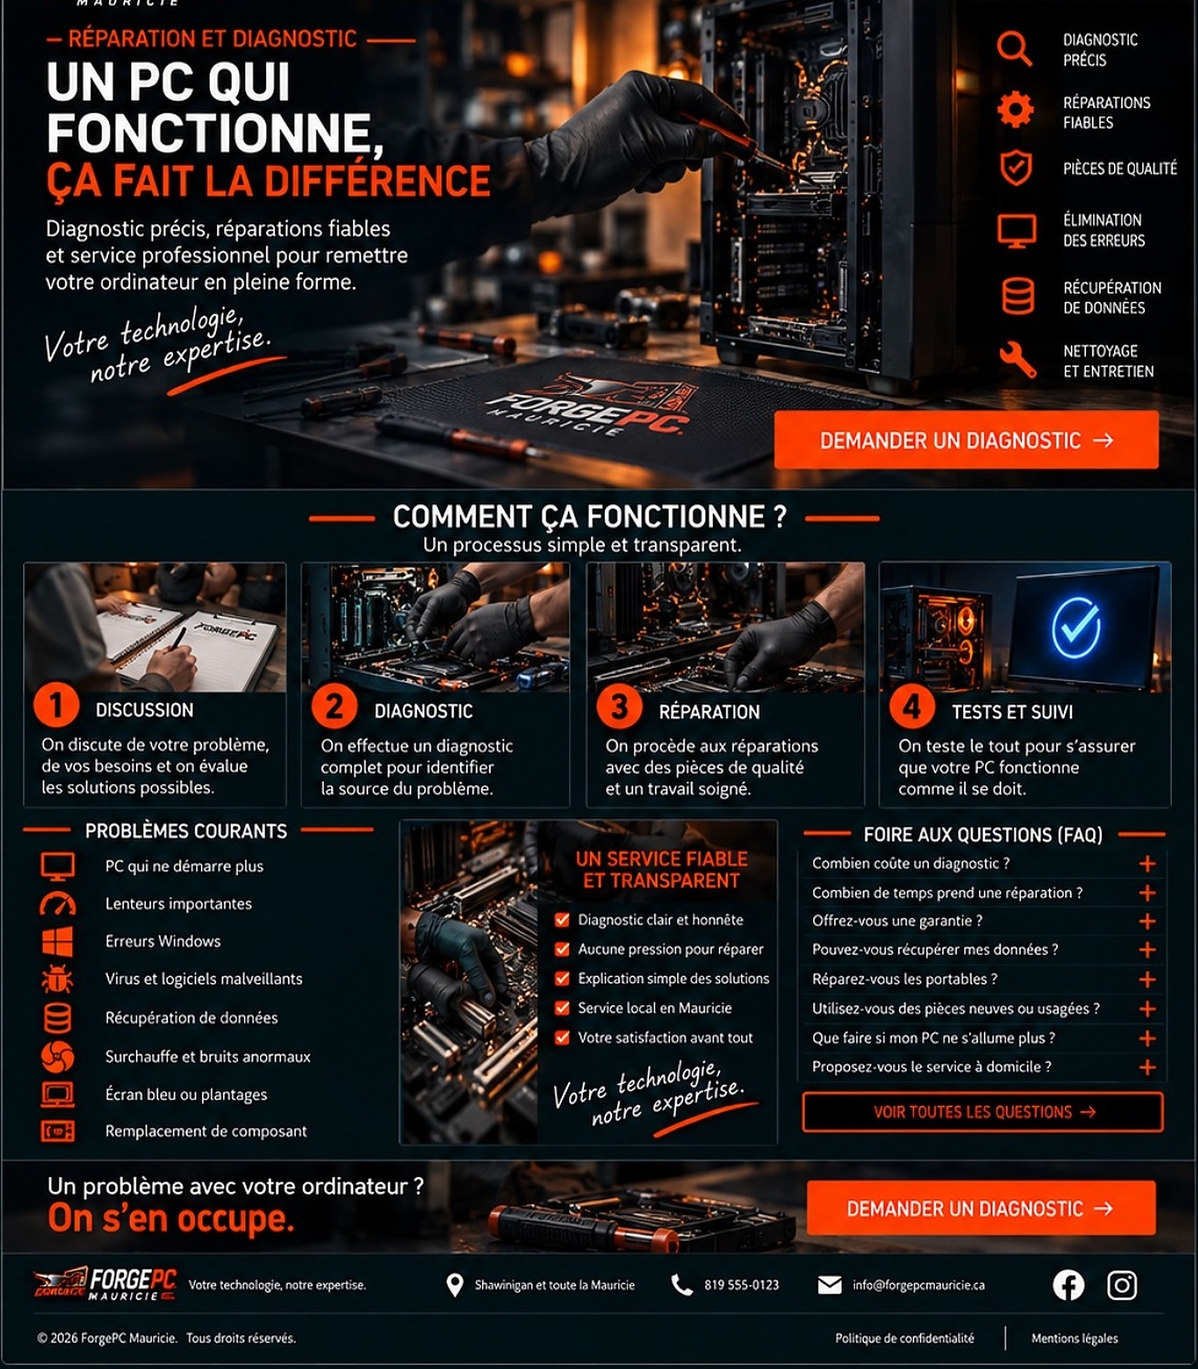
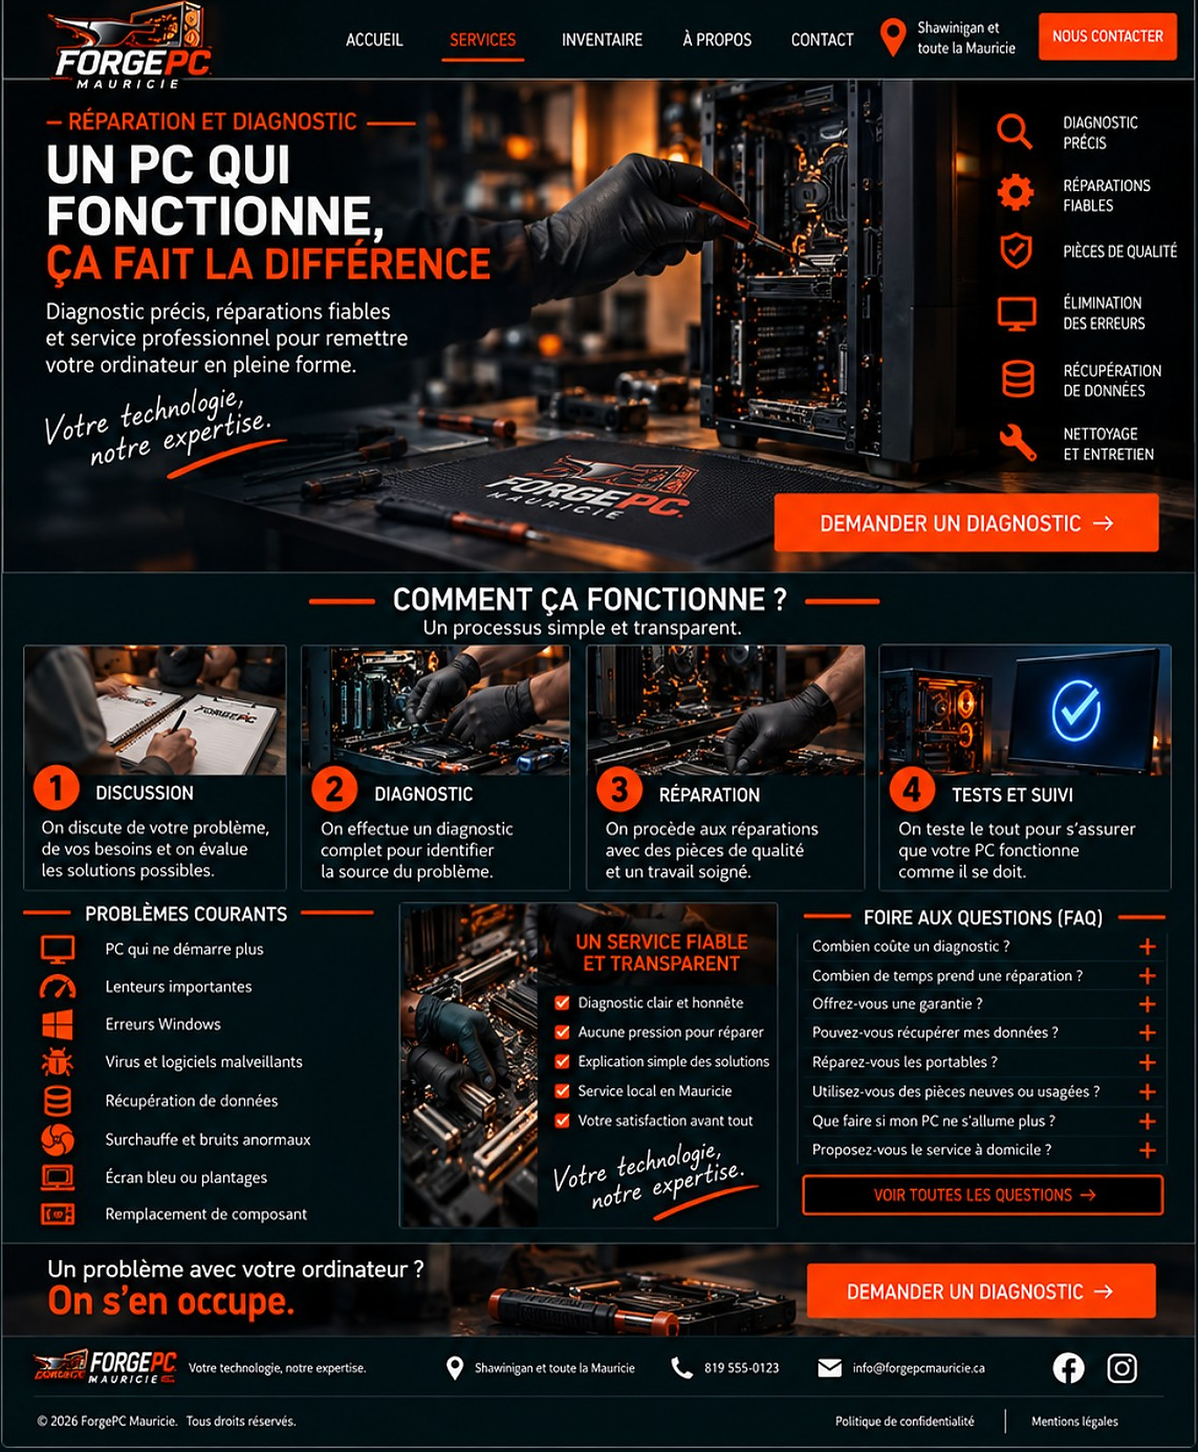
Add files via upload

diff --git a/Assets/forgepc.css b/Assets/forgepc.css
@@ -17,7 +17,7 @@ footer{background:#02090b;border-top:1px solid #27363a}.footer-main{min-height:7
 .form-grid{display:grid;grid-template-columns:1fr 1fr;gap:9px}.full{grid-column:1/-1}label{display:block;font-size:11px;font-weight:700;margin:0 0 4px}label span{color:var(--orange)}input,select,textarea{width:100%;border:1px solid #49606a;border-radius:4px;padding:8px 9px;background:#132229;color:#fff;font:12px Arial,Helvetica,sans-serif}textarea{min-height:75px;resize:vertical}.submit{width:100%;margin-top:8px;background:var(--orange);color:#fff;border:0;border-radius:4px;padding:11px;font-size:12px;font-weight:900;cursor:pointer}
 @media(max-width:900px){
  .container{width:min(calc(100% - 20px),680px)}.navlinks.mobile-only{display:none}.navlinks.mobile-only.open{display:flex;position:fixed;left:10px;right:10px;top:70px;width:auto;height:auto;z-index:5000;flex-direction:column;align-items:stretch;gap:0;margin:0;padding:6px;background:#02090b;border:1px solid #2d4147;border-radius:6px;box-shadow:0 10px 30px rgba(0,0,0,.55)}.navlinks.mobile-only.open a{height:auto;min-height:43px;padding:10px;border-bottom:1px solid #293a40}.navlinks.mobile-only.open a:last-child{border-bottom:0}.site-header{height:70px}.logo{width:132px;height:64px}.navlinks,.navcta,.nav-location{display:none}.menu{display:flex;align-items:center;justify-content:center}.navlinks.open{display:flex;position:absolute;left:10px;right:10px;top:70px;height:auto;flex-direction:column;align-items:stretch;gap:0;padding:6px;background:#02090b;border:1px solid #2d4147;border-radius:6px}.navlinks.open a{height:auto;min-height:43px;padding:10px;border-bottom:1px solid #293a40}.navlinks.open a:last-child{border-bottom:0}
- .home-hero{min-height:0;background-image:linear-gradient(90deg,rgba(0,0,0,.90),rgba(0,0,0,.42)),url('index-hero-mobile.jpg');background-size:cover;background-position:center}.home-hero-inner{min-height:0;display:block;padding:24px 0 20px}.home-copy{max-width:100%;padding-top:0}.home-copy h1{font-size:35px}.home-copy p{font-size:15px}.home-actions{display:grid;gap:9px}.home-actions .btn{width:100%}.hero-cta{display:none}.home-points{display:none}.section{padding:13px 0}.section-title{font-size:23px}.title-line{gap:11px}.title-line:before,.title-line:after{width:48px}.home-services{grid-template-columns:1fr;gap:8px}.service-card{display:grid;grid-template-columns:92px 1fr;min-height:94px}.service-card img{height:94px}.service-card .body{padding:8px 10px}.service-card h3{font-size:12px;margin-bottom:4px}.service-card p{font-size:10px;line-height:1.18;min-height:0;margin-bottom:5px}.service-card a{font-size:9.5px}.about{grid-template-columns:1fr;gap:12px}.home-page .about img{display:none}.about img{height:170px}.quote{margin-top:2px}.trust{grid-template-columns:1fr 1fr;gap:11px;padding-bottom:88px}.home-page .trust:after{top:auto;bottom:0;width:100%;height:72px;clip-path:polygon(28% 0,100% 0,100% 100%,0 100%);font-size:17px;padding-left:18%;justify-content:center}.trust-item{font-size:11px}.footer-main{min-height:0;padding:13px 0;display:grid;grid-template-columns:1fr 1fr;gap:9px;text-align:center}.footer-logo{width:125px;height:55px;margin:auto}.footer-tag{display:none}.footer-contact{grid-column:1/-1;margin:0;justify-content:center;flex-wrap:wrap;font-size:10px;gap:8px 14px}.footer-social{grid-column:1/-1}.footer-bottom{min-height:45px;justify-content:center;flex-wrap:wrap;text-align:center;padding:6px;gap:4px}
+ .home-hero{min-height:0;background-image:linear-gradient(90deg,rgba(0,0,0,.90),rgba(0,0,0,.42)),url('index-hero.jpg');background-size:cover;background-position:center}.home-hero-inner{min-height:0;display:block;padding:24px 0 20px}.home-copy{max-width:100%;padding-top:0}.home-copy h1{font-size:35px}.home-copy p{font-size:15px}.home-actions{display:grid;gap:9px}.home-actions .btn{width:100%}.hero-cta{display:none}.home-points{display:none}.section{padding:13px 0}.section-title{font-size:23px}.title-line{gap:11px}.title-line:before,.title-line:after{width:48px}.home-services{grid-template-columns:1fr;gap:8px}.service-card{display:grid;grid-template-columns:92px 1fr;min-height:94px}.service-card img{height:94px}.service-card .body{padding:8px 10px}.service-card h3{font-size:12px;margin-bottom:4px}.service-card p{font-size:10px;line-height:1.18;min-height:0;margin-bottom:5px}.service-card a{font-size:9.5px}.about{grid-template-columns:1fr;gap:12px}.home-page .about img{display:none}.about img{height:170px}.quote{margin-top:2px}.trust{grid-template-columns:1fr 1fr;gap:11px;padding-bottom:88px}.home-page .trust:after{top:auto;bottom:0;width:100%;height:72px;clip-path:polygon(28% 0,100% 0,100% 100%,0 100%);font-size:17px;padding-left:18%;justify-content:center}.trust-item{font-size:11px}.footer-main{min-height:0;padding:13px 0;display:grid;grid-template-columns:1fr 1fr;gap:9px;text-align:center}.footer-logo{width:125px;height:55px;margin:auto}.footer-tag{display:none}.footer-contact{grid-column:1/-1;margin:0;justify-content:center;flex-wrap:wrap;font-size:10px;gap:8px 14px}.footer-social{grid-column:1/-1}.footer-bottom{min-height:45px;justify-content:center;flex-wrap:wrap;text-align:center;padding:6px;gap:4px}
  .services-hero{height:190px;background-image:linear-gradient(90deg,rgba(2,11,15,.94),rgba(2,11,15,.62) 48%,rgba(2,11,15,.10)),url('services-hero-approved-clean.jpg');background-repeat:no-repeat;background-position:center, right center;background-size:100% 100%, 58% 100%}.services-hero .container{align-items:flex-start;padding-top:17px}.services-copy{max-width:360px}.services-eyebrow{font-size:13px}.services-copy h1{font-size:36px}.services-copy p{font-size:14px}.script{font-size:18px}.benefits{display:none;gap:9px 17px}.benefits span{font-size:10px}.services-cards{grid-template-columns:1fr;gap:8px}.services-card{display:grid;grid-template-columns:92px 1fr;height:94px}.services-card .img{height:94px}.services-card .body{padding:7px 9px}.services-card h3{font-size:12px;margin-bottom:4px;white-space:nowrap;overflow:hidden;text-overflow:ellipsis}.services-card p{font-size:10px;line-height:1.18;min-height:0;margin-bottom:5px}.orange-link{font-size:9.5px}.steps{grid-template-columns:1fr;gap:8px;margin-top:10px}.services-page .steps .step:nth-child(4){display:none}.step{grid-template-columns:50px 1fr}.num{width:48px;height:48px}.step strong{font-size:12px}.step p{font-size:10.5px}.info-grid{grid-template-columns:1fr;gap:0;margin-top:11px}.info-box{min-height:48px;height:48px;padding:0 12px;display:flex;align-items:center;border-radius:0}.info-box:first-child{border-radius:4px 4px 0 0}.info-box:last-child{border-radius:0 0 4px 4px}.info-box h3{font-size:12px;margin:0;white-space:nowrap}.info-box h3 b{font-size:22px}.info-box>p,.info-box>a,.sector{display:none}.services-page .faq-wrap{display:none}.services-cta{height:auto;min-height:135px}.services-cta .container{height:auto;min-height:135px;display:block;padding:17px 0}.services-cta h2{font-size:25px}.services-cta .btn{width:100%;margin:12px 0 0;background:var(--orange);color:#fff;border-color:var(--orange)}
  .gaming-hero{min-height:360px}.gaming-hero .container{min-height:360px;align-items:flex-start;padding-top:22px;flex-direction:column}.gaming-copy{max-width:360px}.gaming-copy h1{font-size:36px}.gaming-copy p{font-size:15px}.gaming-tagline{font-size:18px}.gaming-benefits{gap:9px 16px;margin-top:15px}.gaming-benefits span{font-size:10px}.gaming-hero .hero-cta{display:flex;width:100%;margin:12px 0 0;position:static}.gaming-hero .desktop-hero-cta{display:none!important}.gaming-hero .mobile-hero-cta{display:flex!important}.gaming-project{grid-template-columns:1fr}.gaming-project > .panel:first-child{display:none}.approach{grid-template-columns:1fr;gap:7px}.approach-card{display:grid;grid-template-columns:43px minmax(0,1fr) 20px;min-height:57px;height:auto;align-items:center}.approach-card img{display:none}.approach-body{grid-column:1/-1;display:grid;grid-template-columns:43px minmax(0,1fr) 20px;align-items:center;padding:8px 9px}.approach-body:after{content:"⌄";color:var(--orange);font-size:20px;text-align:right}.approach-body h3{grid-column:1/3;grid-row:1;display:flex;align-items:center;gap:8px;font-size:12px;margin:0}.approach-body h3 .num{grid-column:1;grid-row:1;width:32px;height:32px;min-width:32px;margin:0;font-size:17px;display:grid;place-items:center;border:2px solid var(--orange);border-radius:50%;color:var(--orange)}.approach-body p{grid-column:2;grid-row:2;font-size:10px;line-height:1.2;margin:2px 0 0}.project-feature{grid-template-columns:110px 1fr}.project-image{width:110px;height:145px}.project-copy h2{font-size:16px}.project-copy p{font-size:10px}.faq-title{margin-top:9px!important}.gaming-project > .project-panel{display:block}.gaming-cta{height:auto;min-height:145px}.gaming-cta .container{height:auto;min-height:145px;display:block;padding:18px 0}.gaming-cta h2{font-size:25px}.gaming-cta .btn{width:100%;margin:12px 0 0;background:var(--orange);color:#fff;border-color:var(--orange)}.form-grid{grid-template-columns:1fr}.full{grid-column:auto}
 }

diff --git a/Assets/services-v1-reset.css b/Assets/services-v1-reset.css
@@ -1,0 +1,210 @@
+
+*{box-sizing:border-box}
+html,body{margin:0;background:#020b0f;color:#fff;font-family:Arial,Helvetica,sans-serif}
+:root{--o:#ff5208;--bg:#031218;--panel:#06171d;--border:#36515a;--line:#233940}
+
+.v1-desktop-viewport{display:none}
+.v1-mobile-original{display:block}
+
+/* Desktop canvas = 1135px, exactement la largeur du panneau PC de la maquette.
+   JS l'agrandit/réduit uniformément pour remplir la fenêtre comme l'Index. */
+@media(min-width:901px){
+  .v1-mobile-original{display:none!important}
+  .v1-desktop-viewport{
+    display:block;
+    width:100vw;
+    position:relative;
+    overflow:hidden;
+    background:#020b0f;
+  }
+  .v1-canvas{
+    position:absolute;
+    left:0;top:0;
+    width:1135px;
+    transform-origin:top left;
+    background:var(--bg);
+  }
+
+  /* Header exact Index */
+  .v1-index-header{height:68px;position:relative;line-height:0;background:#020a0d}
+  .v1-index-header>img{width:1135px;height:68px;display:block}
+  .v1-index-header>a{position:absolute;top:0;height:68px;display:block}
+  .nav-logo{left:30px;width:145px}
+  .nav-home{left:300px;width:90px}
+  .nav-services{left:390px;width:90px}
+  .nav-inventory{left:485px;width:110px}
+  .nav-about{left:600px;width:100px}
+  .nav-contact{left:705px;width:95px}
+  /* efface le trait Accueil cuit dans l'image, puis souligne Services */
+  .v1-index-header:before{
+    content:"";position:absolute;left:302px;bottom:7px;width:62px;height:5px;
+    background:#020a0d;z-index:2
+  }
+  .v1-index-header:after{
+    content:"";position:absolute;left:397px;bottom:7px;width:58px;height:2px;
+    background:var(--o);z-index:3
+  }
+
+  /* HERO */
+  .v1-hero{
+    height:340px;
+    display:grid;
+    grid-template-columns:315px 820px;
+    background:#020d11;
+    border-bottom:1px solid #52250f;
+    overflow:hidden
+  }
+  .hero-copy{padding:28px 12px 12px 42px}
+  .kicker{color:var(--o);font-size:15px;font-weight:900;margin-bottom:9px}
+  .hero-copy h1{margin:0;font-size:43px;line-height:.91;letter-spacing:-.7px;font-weight:900}
+  .hero-copy h1 span{color:var(--o)}
+  .hero-copy>p{margin:11px 0 0;font-size:13px;line-height:1.22}
+  .signature{
+    display:inline-block;margin:15px 0 0 9px;
+    font:700 italic 18px/1.04 "Segoe Print","Comic Sans MS",cursive;
+    transform:rotate(-6deg)
+  }
+  .signature:after{content:"";display:block;width:104px;height:4px;background:var(--o);margin:4px 0 0 21px}
+  .hero-img{
+    background:
+      linear-gradient(90deg,#020d11 0%,rgba(2,13,17,.72) 5%,rgba(2,13,17,.10) 19%,rgba(2,13,17,0) 31%),
+      url("v1-hero-services.jpg") center/cover no-repeat
+  }
+
+  /* Services */
+  .v1-services{height:360px;padding:15px 32px 16px}
+  .title-row{display:flex;justify-content:center;align-items:flex-start;gap:16px;text-align:center;margin-bottom:12px}
+  .title-row i{width:82px;height:3px;background:var(--o);margin-top:13px}
+  .title-row h2{margin:0;font-size:27px;line-height:1;font-weight:900}
+  .title-row p{margin:4px 0 0;font-size:11px}
+  .title-row.small{margin-bottom:9px}
+
+  .cards{display:grid;grid-template-columns:repeat(5,1fr);gap:10px}
+  .card{
+    height:296px;display:flex;flex-direction:column;overflow:hidden;
+    background:var(--panel);border:1px solid var(--border);border-radius:4px
+  }
+  .photo{width:100%;height:130px;object-fit:cover;display:block}
+  .body{padding:8px 9px 9px;display:flex;flex-direction:column;flex:1}
+  .card h3{margin:0 0 7px;display:flex;align-items:center;gap:6px;font-size:11px;line-height:1.05;font-weight:900}
+  .card h3 img{width:29px;height:29px;object-fit:contain;flex:0 0 29px}
+  .card p{margin:0 0 8px;font-size:10px;line-height:1.3;min-height:55px}
+  .card a{
+    margin-top:auto;min-height:29px;border:1px solid var(--o);color:var(--o);
+    text-decoration:none;font-size:8px;font-weight:900;
+    display:flex;align-items:center;justify-content:center;text-align:center;padding:4px
+  }
+
+  /* How */
+  .v1-how{height:132px;padding:10px 32px 12px;border-top:1px solid var(--line);border-bottom:1px solid var(--line)}
+  .v1-how .title-row h2{font-size:23px}
+  .v1-how .title-row p{font-size:10px}
+  .steps{display:grid;grid-template-columns:repeat(4,1fr);gap:18px}
+  .step{display:grid;grid-template-columns:44px 1fr;gap:8px;align-items:center}
+  .step>b{
+    width:39px;height:39px;display:grid;place-items:center;border:3px solid var(--o);
+    border-radius:50%;color:var(--o);font-size:17px
+  }
+  .step strong{display:block;font-size:10px;margin-bottom:2px}
+  .step span{display:block;font-size:8.8px;line-height:1.22}
+
+  /* Info */
+  .v1-info{height:276px;display:grid;grid-template-columns:1fr 1.18fr 1.08fr;gap:10px;padding:10px 32px 14px}
+  .info{
+    min-height:250px;display:flex;flex-direction:column;padding:12px;
+    background:var(--panel);border:1px solid var(--border);border-radius:4px
+  }
+  .info h3{margin:0 0 9px;font-size:12px}
+  .info h3 span{color:var(--o);font-size:18px}
+  .info p{margin:0 0 8px;font-size:10px;line-height:1.34}
+  .info .lead{font-size:11px}
+  .info .sector{width:100%;height:86px;object-fit:cover;margin:0 0 7px}
+  .info>a,.more{margin-top:auto;color:var(--o);text-decoration:none;font-size:8.5px;font-weight:900}
+  .faq-item{border-bottom:1px solid var(--line)}
+  .faq-item button{
+    width:100%;padding:4px 0;border:0;background:none;color:#fff;
+    display:flex;justify-content:space-between;gap:8px;text-align:left;font-size:8.8px;cursor:pointer
+  }
+  .faq-item button b{color:var(--o);font-size:15px}
+  .faq-item>div{display:none;color:#cbd1d3;font-size:8px;line-height:1.25;padding:0 12px 5px 0}
+  .faq-item.open>div{display:block}
+
+  /* CTA café */
+  .v1-cta{
+    height:100px;padding:0 40px;display:flex;align-items:center;justify-content:space-between;
+    background:
+      linear-gradient(90deg,rgba(3,13,16,.52),rgba(3,13,16,.08)),
+      url("v1-coffee-banner.jpg") center/cover no-repeat;
+    border-top:1px solid var(--line)
+  }
+  .v1-cta p{margin:0;font-size:13px;font-weight:700}
+  .v1-cta h2{margin:2px 0 0;color:var(--o);font-size:25px}
+  .v1-cta>a{
+    width:170px;height:38px;display:flex;align-items:center;justify-content:center;
+    background:var(--o);color:#fff;text-decoration:none;font-size:10px;font-weight:900
+  }
+
+  /* Footer exact Index */
+  .v1-index-footer{height:152px;position:relative;line-height:0;background:#020a0d}
+  .v1-index-footer>img{width:1135px;height:152px;display:block}
+  .v1-index-footer>a{position:absolute;top:28px;height:48px;display:block}
+  .footer-phone{left:415px;width:150px}
+  .footer-mail{left:570px;width:245px}
+}
+
+/* Mobile = contenu V29 d'origine */
+@media(max-width:900px){
+  .v1-desktop-viewport{display:none!important}
+  .v1-mobile-original{display:block!important}
+}
+
+
+@media(min-width:901px){
+  .v1-index-header>a{
+    font-size:0!important;
+    color:transparent!important;
+    text-decoration:none!important;
+    overflow:hidden!important;
+  }
+
+  .v1-index-header:before{
+    left:298px!important;
+    bottom:7px!important;
+    width:70px!important;
+    height:7px!important;
+    background:#020a0d!important;
+  }
+
+  .v1-index-header:after{
+    left:397px!important;
+    bottom:7px!important;
+    width:58px!important;
+    height:2px!important;
+    background:#ff5208!important;
+  }
+
+  .signature{
+    margin-top:12px!important;
+  }
+}
+
+@media(min-width:901px){
+  .signature{margin-top:10px!important;font-size:17px!important}
+}
+
+@media(min-width:901px){
+  .signature{margin-top:7px!important;font-size:16.5px!important}
+}
+/* Correction finale bandeau Parlons-en: vraie photo source, aucun texte/bouton dupliqué dans l'image */
+@media(min-width:901px){
+  .v1-cta{
+    background-image:linear-gradient(90deg,rgba(3,13,16,.93) 0%,rgba(3,13,16,.78) 28%,rgba(3,13,16,.18) 58%,rgba(3,13,16,.08) 100%),url("about-mug-original.jpg")!important;
+    background-size:100% 100%,cover!important;
+    background-position:center,right 46%!important;
+    background-repeat:no-repeat!important;
+  }
+}
+
+@media(min-width:901px){
+ .v1-cta{background:#030d10 url("v1-coffee-banner-final.jpg") center/100% 100% no-repeat!important}
+}

diff --git a/Assets/services-mobile-final.css b/Assets/services-mobile-final.css
@@ -72,7 +72,7 @@
   .services-page .info-box>p,.services-page .info-box>a,.services-page .sector,.services-page .faq-wrap{display:none!important;}
 
   /* CTA */
-  .services-page .services-cta{height:96px!important;min-height:96px!important;margin:0!important;background-image:linear-gradient(90deg,rgba(2,11,15,.72),rgba(2,11,15,.30)),url('services-cta-maquette-exact.jpg')!important;background-position:center!important;background-size:cover!important;background-repeat:no-repeat!important;}
+  .services-page .services-cta{height:96px!important;min-height:96px!important;margin:0!important;background-image:linear-gradient(90deg,rgba(2,11,15,.72),rgba(2,11,15,.30)),url('services-cta-maquette-clean.jpg')!important;background-position:center!important;background-size:cover!important;background-repeat:no-repeat!important;}
   .services-page .services-cta .container{height:100%!important;padding:9px 8px!important;box-sizing:border-box!important;display:flex!important;align-items:center!important;justify-content:space-between!important;gap:7px!important;}
   .services-page .services-cta h2{font-size:13px!important;line-height:1.02!important;max-width:60%!important;margin:0!important;font-weight:900!important;}
   .services-page .services-cta h2 span{display:inline!important;color:#ff5a00!important;}
@@ -194,7 +194,7 @@
   .services-page .info-grid .info-box:nth-child(2)>.sector{display:none!important;}
   .services-page .info-grid .info-box:nth-child(2) h3{display:flex!important;}
   .services-page footer .footer-logo{
-    content:url('logo-footer-final.png')!important;
+    content:url('forgepc-logo-officiel.png')!important;
     width:132px!important;
     height:58px!important;
     object-fit:contain!important;
@@ -561,7 +561,7 @@
 @media (max-width:900px){
   /* Footer: use the exact same logo artwork as the mobile header. */
   .services-page footer .footer-logo{
-    content:url('forgepc-logo-web.webp')!important;
+    content:url('forgepc-logo-web.png')!important;
     width:112px!important;
     max-width:112px!important;
     height:48px!important;

diff --git a/Assets/index-final.css b/Assets/index-final.css
@@ -15,7 +15,7 @@
   width:min(1400px, calc(100% - 40px));
 }
 .home-page .site-header .logo{
-  content:url('forgepc-logo-web.webp') !important;
+  content:url('forgepc-logo-web.png') !important;
 }
 .home-page .site-header .nav{
   min-height:76px;
@@ -449,7 +449,7 @@
   .home-page .footer-logo{
     grid-area:logo;width:112px;max-width:112px;height:48px;margin:0;
     object-fit:contain;object-position:left center;
-    content:url('forgepc-logo-web.webp') !important;
+    content:url('forgepc-logo-web.png') !important;
   }
   .home-page .footer-tag{display:none}
   .home-page .footer-social{
@@ -575,7 +575,7 @@
     grid-area:logo;flex:initial!important;
     width:108px!important;height:55px!important;
     margin:0!important;object-fit:contain;object-position:left center;
-    content:url('forgepc-logo-web.webp')!important;
+    content:url('forgepc-logo-web.png')!important;
   }
   .home-page .footer-social{grid-area:social;display:flex!important;justify-content:flex-end;align-items:center;gap:14px;margin:0!important;letter-spacing:0!important;}
   .home-page .footer-social .social-facebook{width:25px;height:25px;font-size:17px;}
@@ -657,7 +657,7 @@
     margin:0!important;
     object-fit:contain!important;
     object-position:left center!important;
-    content:url('forgepc-logo-web.webp')!important;
+    content:url('forgepc-logo-web.png')!important;
   }
   .home-page .site-footer .footer-tag{display:none!important;}
   .home-page .site-footer .footer-social{
@@ -766,7 +766,7 @@
     max-height:52px!important;
     object-fit:contain!important;
     object-position:left center!important;
-    content:url('forgepc-logo-web.webp')!important;
+    content:url('forgepc-logo-web.png')!important;
   }
   .home-page .site-footer .footer-social{
     gap:15px!important;

diff --git a/Assets/mobile-approved.css b/Assets/mobile-approved.css
@@ -4,7 +4,7 @@ body[data-mobile-page] .page{width:100%!important;max-width:none!important;margi
 body[data-mobile-page] header.site-header{height:84px!important;min-height:84px!important;padding:0!important;position:relative!important;}
 body[data-mobile-page] header.site-header .container.nav{width:calc(100% - 28px)!important;max-width:none!important;height:84px!important;min-height:84px!important;padding:0!important;margin:0 auto!important;}
 body[data-mobile-page] header.site-header .brand-link{height:80px!important;padding:0!important;margin:0!important;}
-body[data-mobile-page] header.site-header .brand-link img.logo{content:url('forgepc-logo-web.webp')!important;width:144px!important;height:76px!important;max-width:144px!important;max-height:76px!important;object-fit:contain!important;filter:none!important;left:0!important;}
+body[data-mobile-page] header.site-header .brand-link img.logo{content:url('forgepc-logo-web.png')!important;width:144px!important;height:76px!important;max-width:144px!important;max-height:76px!important;object-fit:contain!important;filter:none!important;left:0!important;}
 body[data-mobile-page] header.site-header .menu{width:42px!important;height:42px!important;font-size:26px!important;margin-left:auto!important;}
 body[data-mobile-page] header.site-header .navlinks:not(.open){display:none!important;}
 body[data-mobile-page] .mobile-location{height:40px!important;padding:0 18px!important;font-size:14px!important;}

diff --git a/Assets/services-v1-reset.js b/Assets/services-v1-reset.js
@@ -1,0 +1,26 @@
+
+document.addEventListener("DOMContentLoaded", () => {
+  const viewport = document.querySelector(".v1-desktop-viewport");
+  const canvas = document.querySelector(".v1-canvas");
+
+  function fitDesktop(){
+    if(!viewport || !canvas || window.innerWidth < 901) return;
+    const scale = window.innerWidth / 1135;
+    canvas.style.transform = `scale(${scale})`;
+    viewport.style.height = `${canvas.offsetHeight * scale}px`;
+  }
+
+  fitDesktop();
+  window.addEventListener("resize", fitDesktop);
+
+  document.querySelectorAll(".v1-desktop-viewport .faq-item button").forEach(btn => {
+    btn.addEventListener("click", () => {
+      const item = btn.closest(".faq-item");
+      const open = item.classList.toggle("open");
+      btn.setAttribute("aria-expanded", open ? "true" : "false");
+      const sign = btn.querySelector("b");
+      if(sign) sign.textContent = open ? "−" : "+";
+      requestAnimationFrame(fitDesktop);
+    });
+  });
+});
